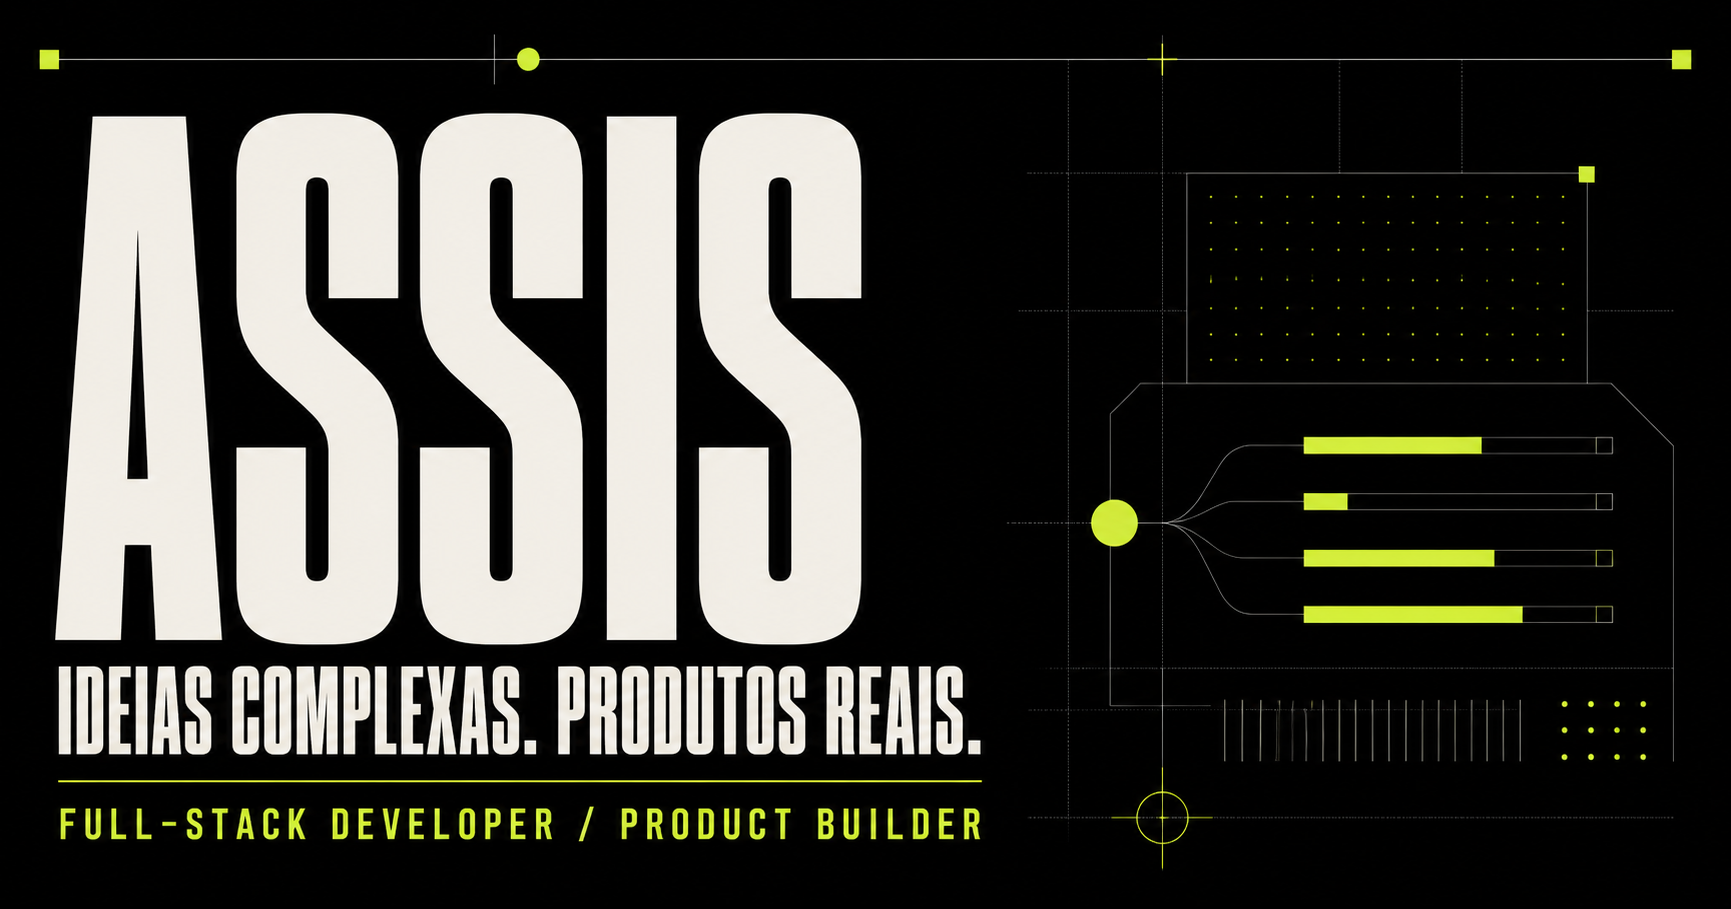
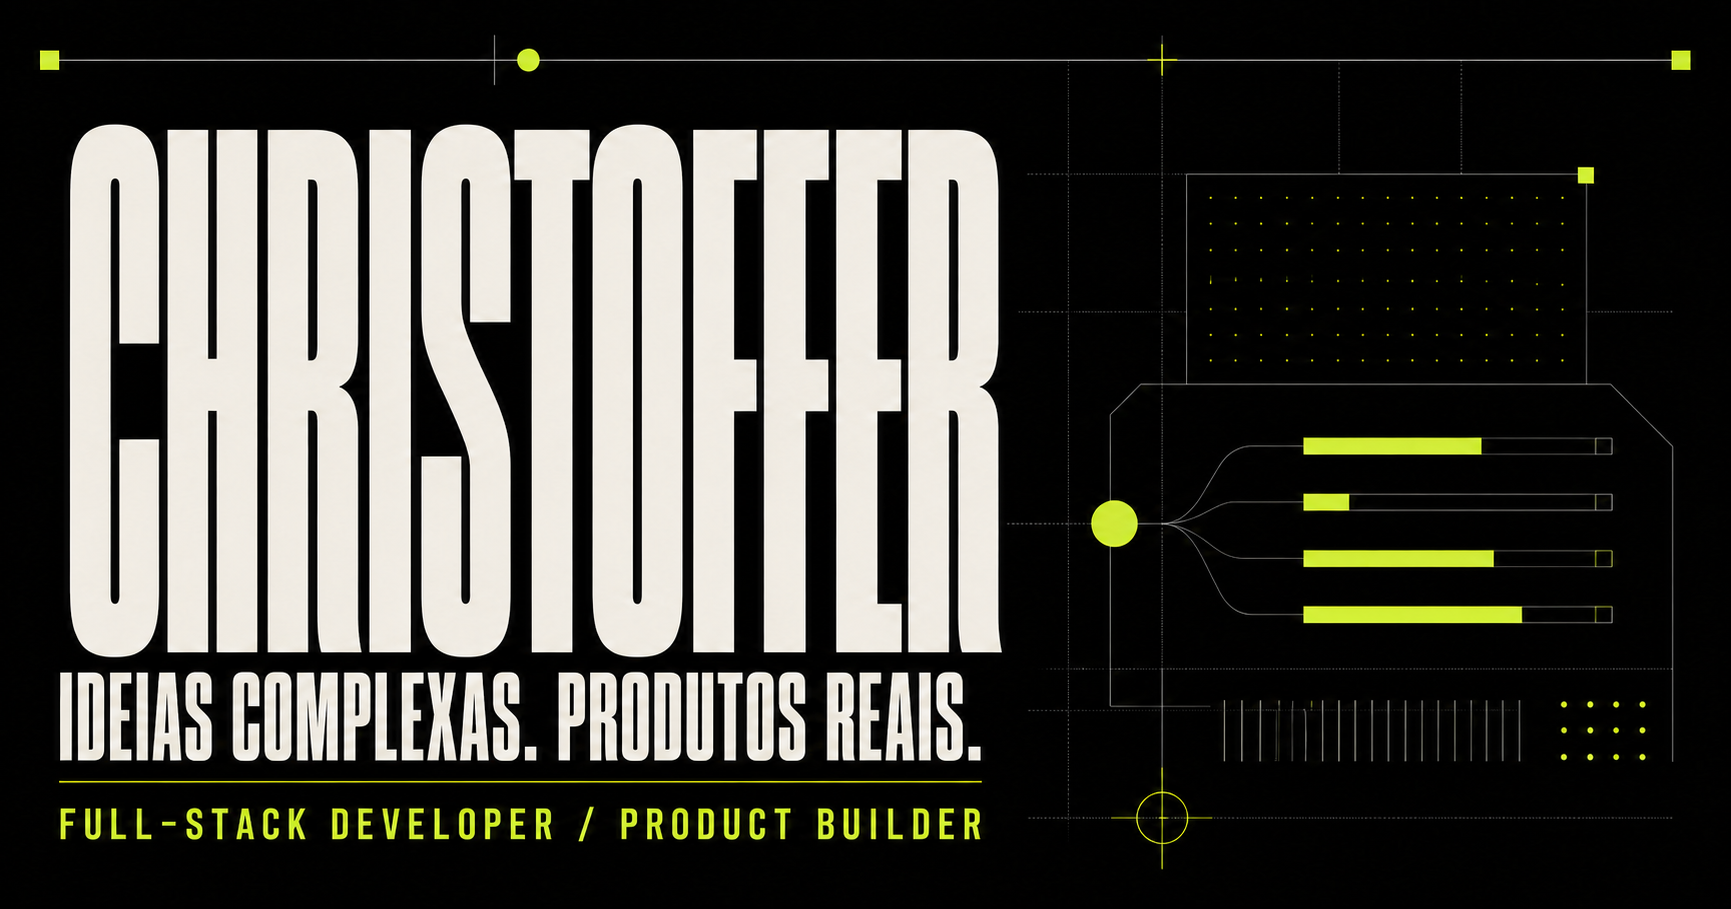
Add generated project previews and Christoffer branding

diff --git a/app/page.tsx b/app/page.tsx
@@ -1,4 +1,5 @@
 import Link from "next/link";
+import Image from "next/image";
 
 const projects = [
   { number:"01", kicker:"PLATAFORMA DE CONTEÚDO", name:"NEXUS IA", lead:"NEXUS", italic:"IA", description:"Uma operação modular que transforma a estratégia de um canal em conteúdo, mídia, narração, vídeo e publicação — com pipeline, aprovações e agenda em um único produto.", tags:["Next.js","TypeScript","FFmpeg","IA"], variant:"nexus", label:"PROJETO PRIVADO" },
@@ -10,22 +11,26 @@ const projects = [
 ];
 
 function ProjectVisual({ variant }: { variant: string }) {
-  if (variant === "nexus") return <div className="project-visual nexus" aria-label="Interface conceitual do Nexus IA"><div className="mock-nav"><b>NEXUS / CONTROL ROOM</b><span>● ONLINE</span></div><div className="mock-grid"><div><small>PIPELINE</small><strong>12</strong><p>jobs ativos</p></div><div><small>PRODUÇÃO</small><strong>86%</strong><p>processado</p></div><div className="wide"><small>CONTEÚDO → MÍDIA → EDIÇÃO → PUBLICAÇÃO</small><div className="progress" /></div></div></div>;
-  if (variant === "tragial") return <div className="project-visual tragial" aria-label="Interface conceitual do Tragial One"><div className="mock-nav"><b>TRAGIAL / ONE</b><span>TERÇA, 18 AGO</span></div><div className="clock">08<span>:</span>47</div><div className="time-row"><b>ENTRADA REGISTRADA</b><span>SEDE 01</span><span>AGORA</span></div><div className="sector-grid"><span>RH</span><span>COMERCIAL</span><span>LOGÍSTICA</span><span>FINANCEIRO</span></div></div>;
-  if (variant === "vortex") return <div className="project-visual vortex" aria-label="Arquitetura conceitual do Vortex Platform"><div className="mock-nav"><b>VORTEX PLATFORM</b><span>RUNTIME / 03</span></div><div className="vortex-core"><span>EXPERIENCE</span><b>V</b><small>CORE RUNTIME</small></div><div className="node-line"><span>VELOCITY</span><span>MINESTOM</span><span>LUA VM</span></div></div>;
-  if (variant === "rex") return <div className="project-visual rex" aria-label="Painel conceitual do Rex Ecosystem"><div className="mock-nav"><b>REX / INFRASTRUCTURE</b><span>4 NODES</span></div><div className="server-list"><div><i>01</i><b>PRIMARY-NODE</b><span>78% CPU</span></div><div><i>02</i><b>GAME-RUNTIME</b><span>2.4 GB</span></div><div><i>03</i><b>EDGE-PROXY</b><span>ONLINE</span></div></div><div className="terminal">$ daemon status <b>all systems nominal_</b></div></div>;
-  if (variant === "starlix") return <div className="project-visual starlix" aria-label="Interface conceitual do Starlix"><div className="mock-nav"><b>STARLIX</b><span>ACCOUNT / PRO</span></div><div className="license-card"><small>ACTIVE LICENSE</small><b>STARLIX / PRO</b><p>•••• •••• 9824</p><span>VALID UNTIL 2027</span></div><div className="license-meta"><span>SUBSCRIPTION ACTIVE</span><span>HWID CONNECTED</span></div></div>;
-  return <div className="project-visual motor" aria-label="Interface conceitual do MotorStore"><div className="mock-nav"><b>MOTOR / STORE</b><span>CATÁLOGO 2026</span></div><div className="car-shape"><div className="roof"/><div className="body"/><i/><i/></div><div className="car-meta"><b>ENCONTRE O SEU PRÓXIMO CARRO.</b><span>CATÁLOGO / FILTROS / GESTÃO</span></div></div>;
+  const previews: Record<string, { src: string; alt: string; label: string }> = {
+    nexus: { src:"/project-previews/nexus.png", alt:"Preview do painel de produção de conteúdo Nexus IA", label:"NEXUS / CONTROL ROOM" },
+    tragial: { src:"/project-previews/tragial-one.png", alt:"Preview do sistema interno de ponto e automação Tragial One", label:"TRAGIAL / OPERAÇÕES" },
+    vortex: { src:"/project-previews/vortex.png", alt:"Preview do studio e runtime Vortex Platform", label:"VORTEX / RUNTIME" },
+    rex: { src:"/project-previews/rex.png", alt:"Preview do painel de infraestrutura Rex Ecosystem", label:"REX / INFRASTRUCTURE" },
+    starlix: { src:"/project-previews/starlix.png", alt:"Preview da plataforma de licenças Starlix", label:"STARLIX / LICENSES" },
+    motor: { src:"/project-previews/motorstore.png", alt:"Preview do marketplace automotivo MotorStore", label:"MOTOR / STORE" },
+  };
+  const preview = previews[variant];
+  return <figure className="project-visual"><Image src={preview.src} alt={preview.alt} width={1536} height={1024} sizes="(max-width: 900px) 100vw, 68vw"/><figcaption><span>{preview.label}</span><span>CONCEPT PREVIEW / 2026</span></figcaption></figure>;
 }
 
 export default function Home() {
   return <main id="top">
-    <header className="topbar"><a className="brand" href="#top">ASSIS<span>®</span></a><p>FULL-STACK DEVELOPER / PRODUCT BUILDER</p><nav aria-label="Navegação principal"><a href="#projetos">projetos,</a><a href="#sobre"> sobre,</a><a href="#contato"> contato</a></nav></header>
+    <header className="topbar"><a className="brand" href="#top">CHRISTOFFER<span>®</span></a><p>FULL-STACK DEVELOPER / PRODUCT BUILDER</p><nav aria-label="Navegação principal"><a href="#projetos">projetos,</a><a href="#sobre"> sobre,</a><a href="#contato"> contato</a></nav></header>
     <section className="hero"><div className="hero-meta"><p>BRASIL — 2026</p><p>DISPONÍVEL PARA NOVOS PROJETOS</p></div><h1>EU TRANSFORMO<br/>IDEIAS COMPLEXAS<br/>EM PRODUTOS <em>REAIS.</em></h1><div className="hero-foot"><p>PLATAFORMAS, AUTOMAÇÕES<br/>E EXPERIÊNCIAS DIGITAIS.</p><div className="hero-note"><span>ESTRATÉGIA</span><span>DESIGN</span><span>CÓDIGO</span></div><a href="#projetos" aria-label="Ir para projetos">↓</a></div></section>
     <section className="manifesto" aria-label="Manifesto"><p>DO PRIMEIRO RASCUNHO AO</p><p><i>PRODUTO</i> EM PRODUÇÃO.</p></section>
     <section className="projects" id="projetos"><div className="section-title"><span>✦</span><h2>PROJETOS SELECIONADOS</h2><p>06 CASES / 2023—2026</p></div><div className="project-stack">{projects.map((project)=><article className="project-card" key={project.name}><div className="project-copy"><p className="index">{project.number} / {project.kicker}</p><h3>{project.lead}{project.lead && <br/>}<i>{project.italic}</i></h3><p className="description">{project.description}</p><div className="tags">{project.tags.map(tag=><span key={tag}>{tag}</span>)}</div>{project.href?<Link className="case-link" href={project.href} target="_blank" rel="noreferrer">{project.label} ↗</Link>:<p className="case-link private">{project.label} <span>●</span></p>}</div><ProjectVisual variant={project.variant}/></article>)}</div></section>
     <section className="archive" aria-label="Outros projetos"><p className="index">MAIS DO GITHUB</p><div className="archive-list"><Link href="https://github.com/AssisCabron/Indie-Community" target="_blank"><span>Indie Community</span><small>COMUNIDADE OPEN SOURCE</small><b>↗</b></Link><Link href="https://github.com/AssisCabron/Place-DB" target="_blank"><span>Place DB</span><small>DOCUMENTAÇÃO</small><b>↗</b></Link><Link href="https://github.com/AssisCabron/portfolio" target="_blank"><span>Portfolio v1</span><small>ARQUIVO / 2023</small><b>↗</b></Link></div></section>
-    <section className="about" id="sobre"><div className="about-intro"><p className="index">SOBRE / ASSIS</p><h2>CONSTRUO O SISTEMA<br/>E PENSO NO <i>TODO.</i></h2></div><div className="about-grid"><p>Desenvolvedor full stack focado em transformar problemas operacionais e ideias ambiciosas em produtos digitais funcionais. Minha atuação atravessa produto, arquitetura, interface, automação e infraestrutura.</p><div className="skills"><p><span>01</span>PRODUTOS FULL STACK</p><p><span>02</span>AUTOMAÇÃO DE PROCESSOS</p><p><span>03</span>PLATAFORMAS COM IA</p><p><span>04</span>INFRAESTRUTURA & REAL-TIME</p></div></div><div className="tech-rail" aria-label="Tecnologias"><span>TYPESCRIPT</span><i>✦</i><span>NEXT.JS</span><i>✦</i><span>NODE.JS</span><i>✦</i><span>JAVA</span><i>✦</i><span>DOCKER</span><i>✦</i><span>MYSQL</span></div></section>
-    <footer id="contato"><div className="footer-top"><p>VAMOS CONSTRUIR ALGO</p><span>↓</span></div><h2>FALE<br/>COMIGO<i>.</i></h2><div className="footer-links"><Link href="https://github.com/AssisCabron" target="_blank">GITHUB ↗</Link><Link href="https://github.com/AssisCabron?tab=repositories" target="_blank">REPOSITÓRIOS ↗</Link><a href="#top">VOLTAR AO TOPO ↑</a></div><div className="footer-base"><span>© 2026 ASSIS</span><span>DESENVOLVIDO COM INTENÇÃO.</span></div></footer>
+    <section className="about" id="sobre"><div className="about-intro"><p className="index">SOBRE / CHRISTOFFER</p><h2>CONSTRUO O SISTEMA<br/>E PENSO NO <i>TODO.</i></h2></div><div className="about-grid"><p>Desenvolvedor full stack focado em transformar problemas operacionais e ideias ambiciosas em produtos digitais funcionais. Minha atuação atravessa produto, arquitetura, interface, automação e infraestrutura.</p><div className="skills"><p><span>01</span>PRODUTOS FULL STACK</p><p><span>02</span>AUTOMAÇÃO DE PROCESSOS</p><p><span>03</span>PLATAFORMAS COM IA</p><p><span>04</span>INFRAESTRUTURA & REAL-TIME</p></div></div><div className="tech-rail" aria-label="Tecnologias"><span>TYPESCRIPT</span><i>✦</i><span>NEXT.JS</span><i>✦</i><span>NODE.JS</span><i>✦</i><span>JAVA</span><i>✦</i><span>DOCKER</span><i>✦</i><span>MYSQL</span></div></section>
+    <footer id="contato"><div className="footer-top"><p>VAMOS CONSTRUIR ALGO</p><span>↓</span></div><h2>FALE<br/>COMIGO<i>.</i></h2><div className="footer-links"><Link href="https://github.com/AssisCabron" target="_blank">GITHUB ↗</Link><Link href="https://github.com/AssisCabron?tab=repositories" target="_blank">REPOSITÓRIOS ↗</Link><a href="#top">VOLTAR AO TOPO ↑</a></div><div className="footer-base"><span>© 2026 CHRISTOFFER</span><span>DESENVOLVIDO COM INTENÇÃO.</span></div></footer>
   </main>;
 }

diff --git a/app/globals.css b/app/globals.css
@@ -17,3 +17,5 @@ footer{padding:13vh 2vw 2vh}.footer-top{display:flex;justify-content:space-betwe
 @media(max-width:900px){.project-card{grid-template-columns:1fr;min-height:0;gap:35px}.project-copy h3{margin:42px 0 26px}.case-link{margin-top:30px}.project-visual{min-height:520px}.about-grid{grid-template-columns:1fr}.tech-rail{gap:25px;justify-content:flex-start}.tech-rail span:nth-of-type(n+5),.tech-rail i:nth-of-type(n+5){display:none}}
 @media(max-width:640px){.topbar{grid-template-columns:1fr auto;margin:0 16px;padding:14px 0}.topbar p{display:none}.topbar nav{font-size:10px}.hero{min-height:82svh;padding:35px 16px 20px}.hero-meta p:last-child{display:none}.hero h1{font-size:15.2vw;line-height:.88;margin-top:8vh}.hero-foot{grid-template-columns:1fr auto}.hero-note{display:none}.hero-foot>a{width:46px;height:46px}.manifesto{padding:11vh 16px}.manifesto p{font-size:11.6vw}.projects{padding:9vh 16px}.section-title{grid-template-columns:auto 1fr}.section-title p{display:none}.project-card{padding:22px 0}.project-copy h3{font-size:17vw}.description{font-size:13px}.project-visual{min-height:400px;padding:16px}.mock-grid{gap:8px}.mock-grid>div{min-height:120px;padding:12px}.mock-grid strong{font-size:46px}.mock-grid .wide{min-height:105px}.clock{font-size:24vw;margin-top:7vh}.sector-grid{left:16px;right:16px;bottom:16px;grid-template-columns:1fr 1fr}.sector-grid span{padding:11px 8px}.vortex-core{margin-top:55px}.vortex-core>b{font-size:90px}.node-line{left:16px;right:16px;bottom:18px}.server-list>div{grid-template-columns:28px 1fr auto}.server-list b{font-size:18px}.terminal{left:16px;right:16px;bottom:16px;padding:17px}.license-card{width:86%;min-height:230px;margin-top:55px;box-shadow:12px 12px 0 var(--acid)}.license-card>b{font-size:35px}.license-meta{left:16px;right:16px;bottom:16px}.car-shape{height:260px;margin-top:45px}.car-shape i{border-width:9px}.car-meta{left:16px;right:16px;bottom:16px;display:block}.car-meta span{display:block;margin-top:8px}.archive{padding:2vh 16px 10vh}.archive-list a{grid-template-columns:1fr auto}.archive-list small{display:none}.about{padding:9vh 16px 0}.about h2{font-size:13vw}.about-grid{padding:6vh 0 9vh}.skills p{font-size:10px}.tech-rail{margin:0 -16px;padding:17px 16px}.tech-rail span:nth-of-type(n+4),.tech-rail i:nth-of-type(n+4){display:none}footer{padding:9vh 16px 16px}footer h2{font-size:28vw;margin:9vh 0}.footer-links{display:grid}.footer-links a:last-child{margin-left:0}.footer-base{display:block}.footer-base span{display:block;margin-top:5px}}
 @media(prefers-reduced-motion:reduce){html{scroll-behavior:auto}.project-visual,.hero-foot>a{transition:none}}
+.project-visual{margin:0;padding:0;min-height:0;aspect-ratio:3/2;background:#050505;color:var(--paper);overflow:hidden}.project-visual img{display:block;width:100%;height:100%;object-fit:cover;transition:transform .7s cubic-bezier(.2,.8,.2,1)}.project-visual:after{content:"";position:absolute;inset:0;background:linear-gradient(180deg,rgba(0,0,0,.04) 60%,rgba(0,0,0,.72));pointer-events:none}.project-card:hover .project-visual img{transform:scale(1.025)}.project-visual figcaption{position:absolute;z-index:2;left:18px;right:18px;bottom:15px;display:flex;justify-content:space-between;gap:18px;color:#fff;font:9px monospace;letter-spacing:.09em}.project-visual figcaption span:last-child{color:var(--acid)}
+@media(max-width:640px){.project-visual{min-height:0;padding:0}.project-visual figcaption{left:12px;right:12px;bottom:10px;font-size:7px}}

diff --git a/app/layout.tsx b/app/layout.tsx
@@ -18,7 +18,7 @@ export async function generateMetadata(): Promise<Metadata> {
   const host = requestHeaders.get("x-forwarded-host") ?? requestHeaders.get("host") ?? "localhost:3000";
   const protocol = requestHeaders.get("x-forwarded-proto") ?? (host.startsWith("localhost") ? "http" : "https");
   const image = `${protocol}://${host}/og.png`;
-  const title = "Assis — Desenvolvedor Full Stack";
+  const title = "Christoffer — Desenvolvedor Full Stack";
   const description = "Ideias complexas. Produtos reais. Portfólio de plataformas, automações e experiências digitais.";
   return { title, description, openGraph:{title,description,type:"website",locale:"pt_BR",images:[{url:image,width:1792,height:1024,alt:title}]}, twitter:{card:"summary_large_image",title,description,images:[image]} };
 }
